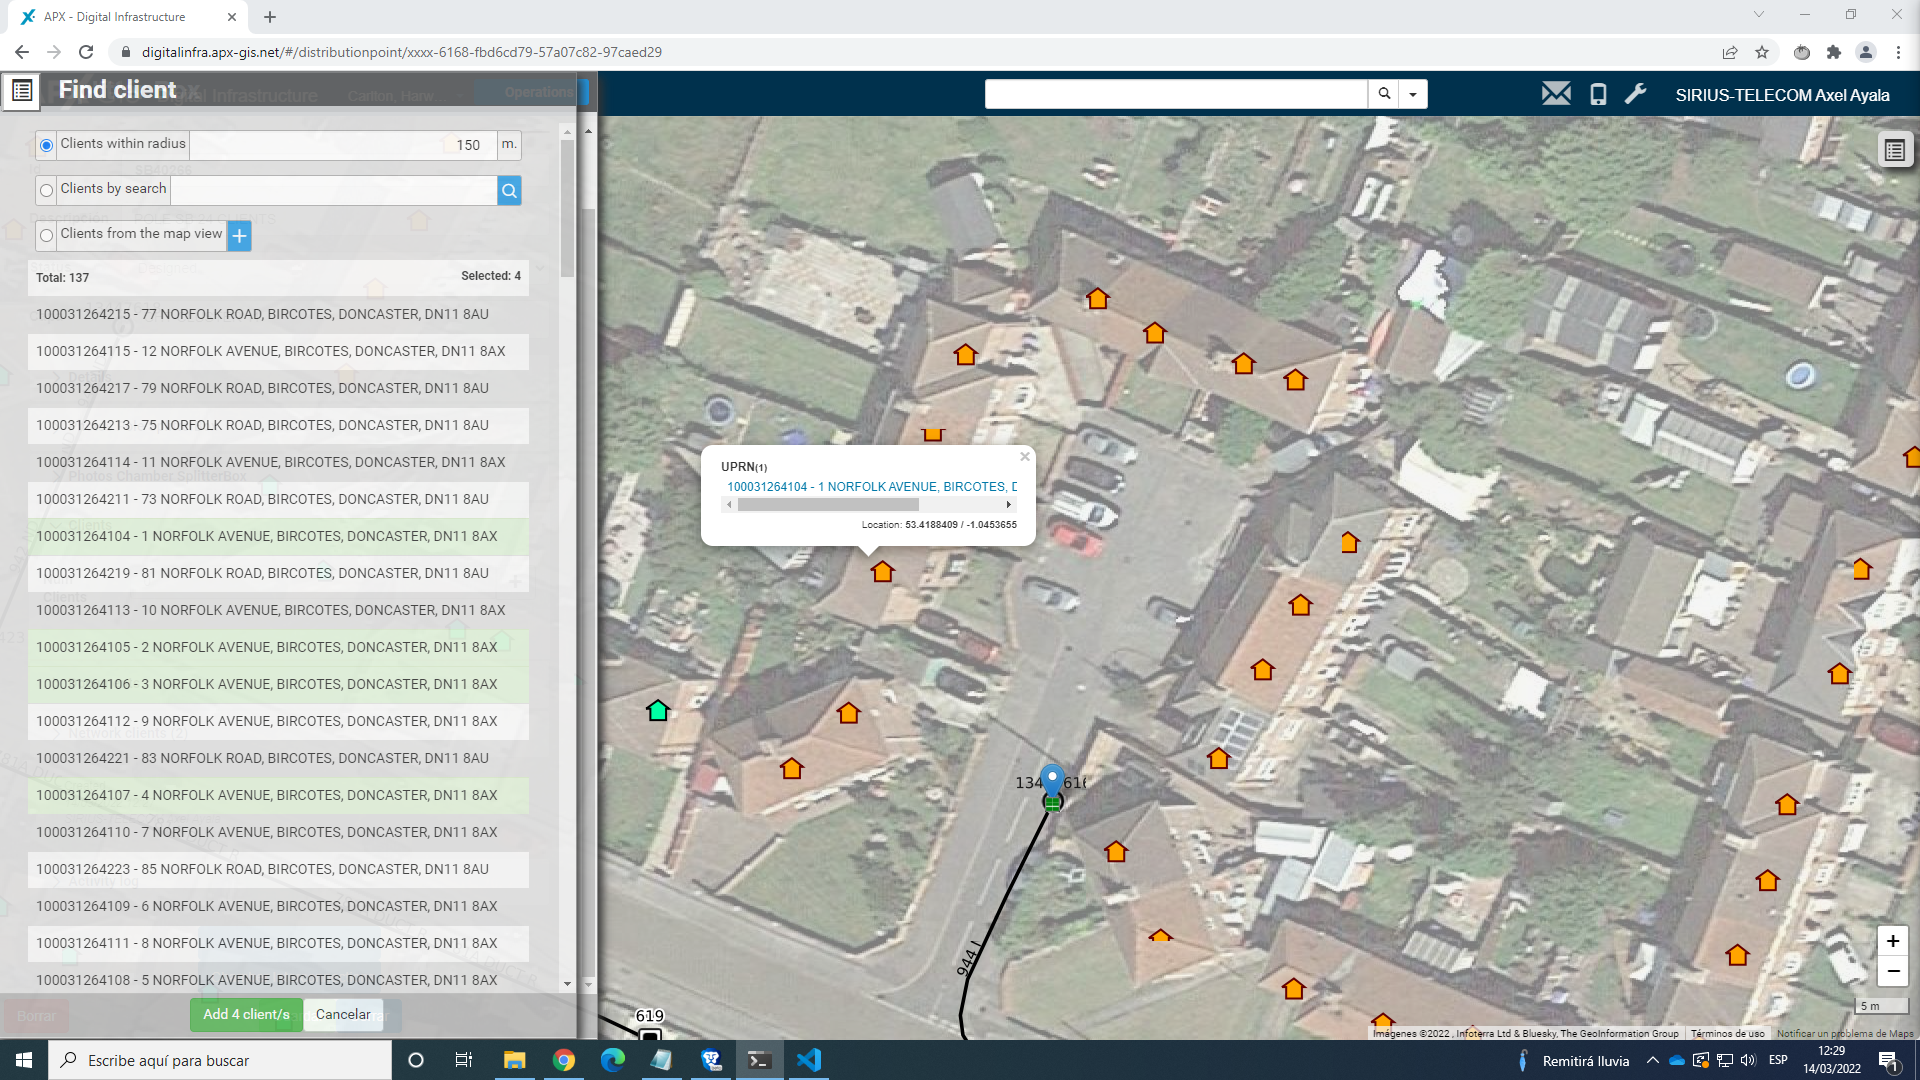
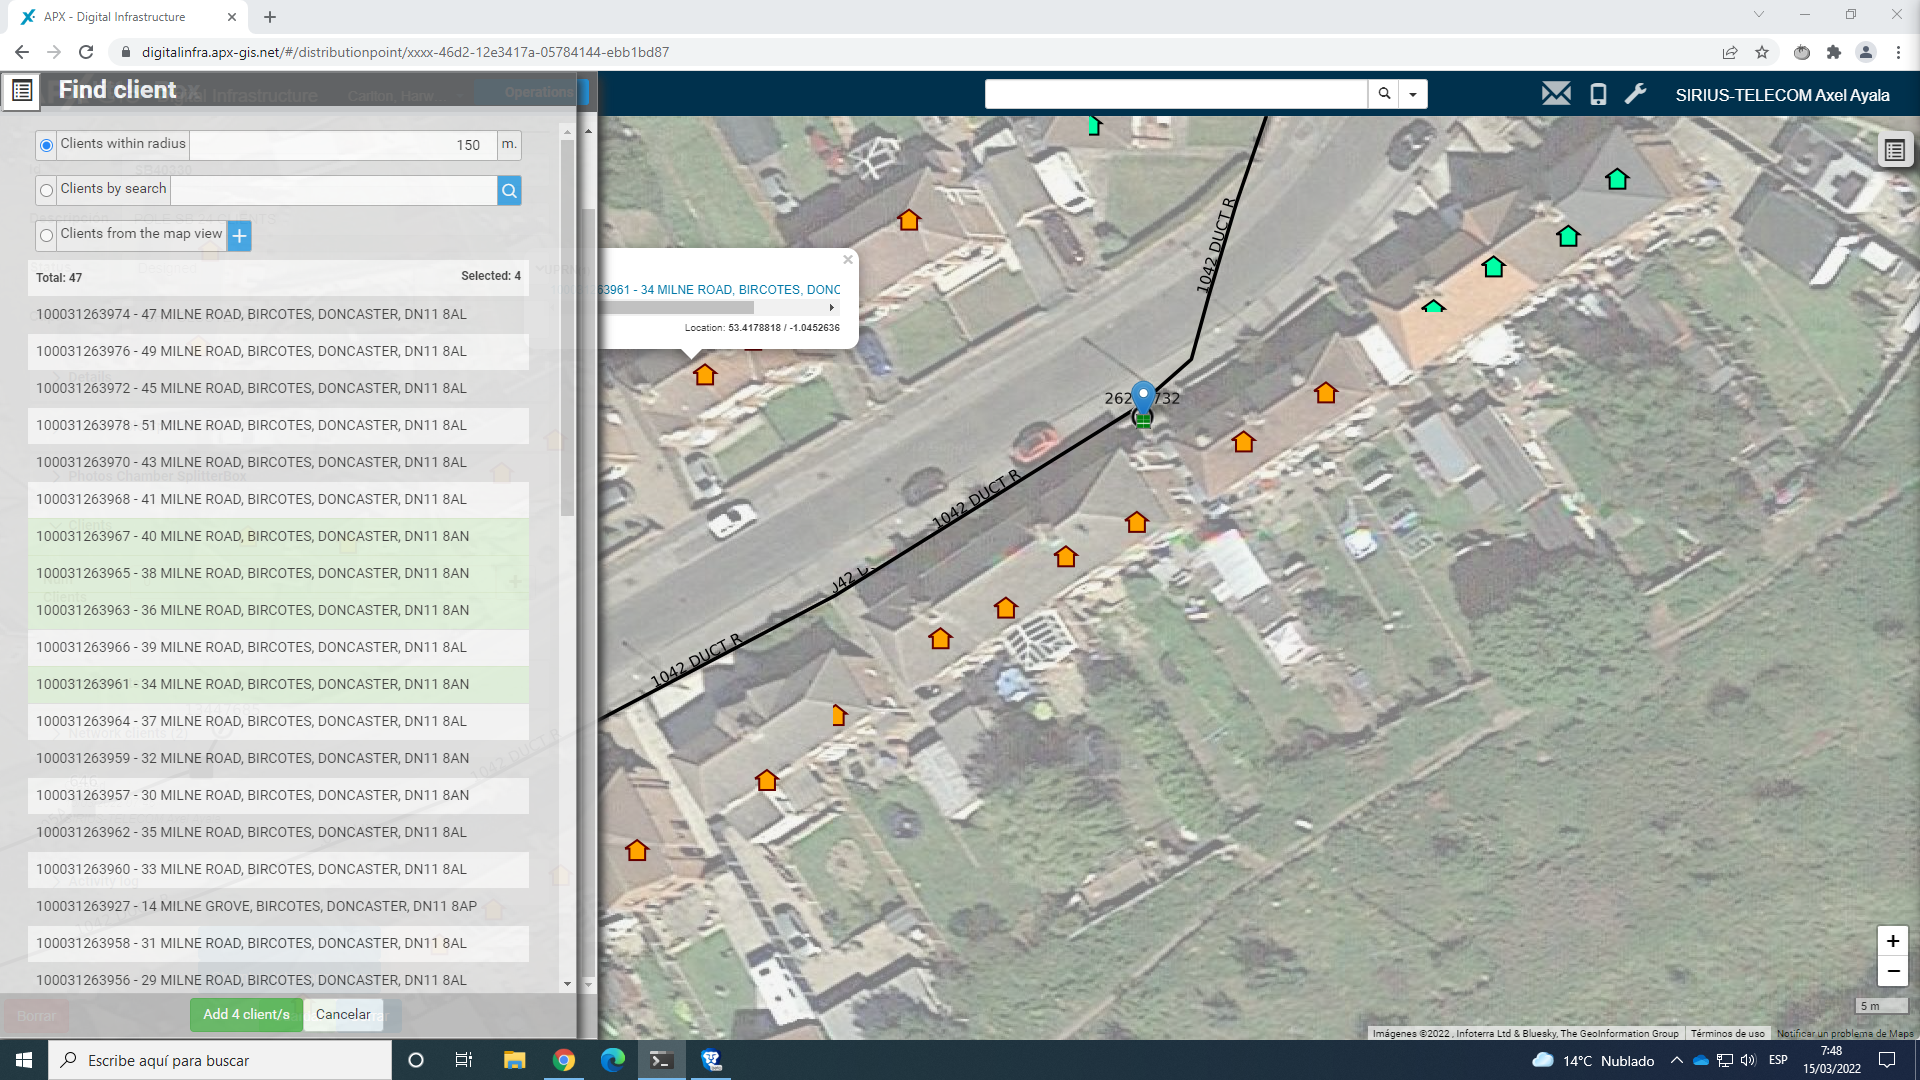
added cable automationj

diff --git a/digital_infrastructure/cable_manager.py b/digital_infrastructure/cable_manager.py
@@ -1,4 +1,6 @@
+from operator import not_
 from pydoc import Helper
+from cv2 import exp
 import pyautogui
 import time
 from selenium import webdriver
@@ -7,6 +9,7 @@ from selenium.webdriver.chrome.options import Options
 from selenium.webdriver.support.wait import WebDriverWait 
 from selenium.webdriver.support import expected_conditions as EC
 from selenium.webdriver.common.by import By
+from constants import CableCodes
 
 from helpers import Helpers
 
@@ -42,16 +45,9 @@ class CableManager:
         create_cable_wait = WebDriverWait(self.driver, 10).until(EC.visibility_of_element_located((By.CSS_SELECTOR, "a[href='#newCable']")))
         crate_cable = self.driver.find_element(by=By.CSS_SELECTOR, value="a[href='#newCable']").click()
 
-        #create cable
-        creating_cable = True
-        while creating_cable: 
 
-            form = input('seguir completando el formulario? ')
 
-            if form.strip() == 'y':
-                creating_cable = False
-
-        form_wait = WebDriverWait(self.driver, 30).until(EC.visibility_of_element_located((By.XPATH, ORIGIN_ID_XPATH )))
+        form_wait = WebDriverWait(self.driver, 600).until(EC.visibility_of_element_located((By.XPATH, ORIGIN_ID_XPATH )))
 
         select_origin = Select(self.driver.find_element(by=By.XPATH, value=ORIGIN_ID_XPATH))
         select_dest = Select(self.driver.find_element(by=By.XPATH, value = DEST_ID_XPATH))
@@ -89,10 +85,40 @@ class CableManager:
         layer_wait = WebDriverWait(self.driver, 10).until(EC.element_to_be_clickable((By.XPATH, '//*[@id="frmcable"]/form/article/div[2]/apx-field1[5]/div/div/app-find-layer/button')))
         layer = self.driver.find_element_by_xpath('//*[@id="frmcable"]/form/article/div[2]/apx-field1[5]/div/div/app-find-layer/button').click() 
         overlay_panel_wait = WebDriverWait(self.driver, 10).until(EC.visibility_of_element_located((By.CLASS_NAME, 'ui-overlaypanel')))
-        upr_option_wait = WebDriverWait(self.driver, 10).until(EC.visibility_of_element_located((By.XPATH, '//*[@id="frmcable"]/form/article/div[2]/apx-field1[5]/div/div/app-find-layer/p-overlaypanel/div/div/p-tree/div/div/ul/p-treenode[4]/li/div/div/div/span')))
+        #upr_option_wait = WebDriverWait(self.driver, 10).until(EC.visibility_of_element_located((By.XPATH, '//*[@id="frmcable"]/form/article/div[2]/apx-field1[5]/div/div/app-find-layer/p-overlaypanel/div/div/p-tree/div/div/ul/p-treenode[4]/li/div/div/div/span')))
         helper.scrape_layers(self.driver,self.workign_town, self.working_cluster)
 
-        save_button = self.driver.find_element_by_xpath('//*[@id="frmdistributionpoint"]/form/footer/button[1]').click()
+        save_button = self.driver.find_element_by_xpath('//*[@id="frmcable"]/form/footer/button[1]').click()
+
+        #cable details
+        not_clickable = True
+        while not_clickable: 
+            try: 
+                details_wait = WebDriverWait(self.driver, 30).until(EC.element_to_be_clickable((By.CSS_SELECTOR,"p-accordiontab[header='Cable Details'] span")))
+                details = self.driver.find_element(by=By.CSS_SELECTOR, value="p-accordiontab[header='Cable Details'] span").click()
+                not_clickable = False
+            except: 
+                pass
+
+        
+        size_wait = WebDriverWait(self.driver, 30).until(EC.visibility_of_element_located((By.CSS_SELECTOR,"apx-field1[label='Size'] input")))
+        size = self.driver.find_element(by= By.CSS_SELECTOR, value= "apx-field1[label='Size'] input")
+
+        cable_size = size.get_attribute('value')
+        print(cable_size)
+        tubes = int(int(cable_size)/ 10)
+        print(tubes)
+
+        tubes_input = self.driver.find_element(by=By.CSS_SELECTOR, value="apx-field1[label='Tubes'] input")
+        tubes_input.send_keys(tubes) 
+        
+        if cable_template == CableCodes.CABLE_48_FO_ULW or cable_template == CableCodes.CABLE_12_FO_ULW: 
+            comments = self.driver.find_element(by=By.CSS_SELECTOR, value="apx-field1[label='Comentarios'] textarea")
+            comments.send_keys('AERIAL')
+
+        save_button = self.driver.find_element_by_xpath('//*[@id="frmcable"]/form/footer/button[1]').click()
+
+        
 
 
     

diff --git a/digital_infrastructure/main.py b/digital_infrastructure/main.py
@@ -1,6 +1,6 @@
 from pydoc import Helper
 from cable_manager import CableManager
-from constants import JointBoxCodes, SbCodes, Towns 
+from constants import CableCodes, JointBoxCodes, SbCodes, Towns 
 from component_creator import ComponentCreator
 from remote_connection import RemoteConnection
 from helpers import Helpers 
@@ -13,6 +13,7 @@ if __name__ == '__main__':
 
     driver = RemoteConnection.setup_connection()
     creator = ComponentCreator(driver=driver, working_town=WORKING_TOWN, working_cluster=WORKING_CLUSTER)
+    cable_manager = CableManager(driver=driver, working_cluster=WORKING_CLUSTER, working_town_code='CHT', working_town=WORKING_TOWN) 
 
     keep_open = True
     
@@ -38,11 +39,15 @@ if __name__ == '__main__':
             creator.create_pole_sb(SbCodes.POLE_SB_24_CLIENTS_MOS)
         elif(command == '3'):
             creator.create_pole_sb(SbCodes.POLE_SB_24_CLIENTS_SAT)
+        elif command == 'a': 
+            cable_manager.automate_cable_form(cable_template=CableCodes.CABLE_12_FO)
+        elif command == 's': 
+            cable_manager.automate_cable_form(cable_template=CableCodes.CABLE_48_FO)
+        elif command == 'd': 
+            cable_manager.automate_cable_form(cable_template=CableCodes.CABLE_12_FO_ULW)
+        elif command == 'f': 
+            cable_manager.automate_cable_form(cable_template=CableCodes.CABLE_48_FO_ULW)
         elif(command == '0'): 
-            cable_manager = CableManager(driver=driver, working_cluster=WORKING_CLUSTER, working_town_code='CHT', working_town=WORKING_TOWN) 
-            id = cable_manager.get_cable_id('J13081','SB39786')
-            print(id)
-
-            cable_manager.automate_cable_form(cable_template='12 f.o.')
+            pass
 
 

diff --git a/digital_infrastructure/constants.py b/digital_infrastructure/constants.py
@@ -26,3 +26,12 @@ class JointBoxCodes :
     JOINT_BOX_SMALL = 'JOINT BOX SMALL'
     JOINT_BOX_MEDIAN = 'JOINT BOX MEDIAN'
     JOINT_BOX_BIG = 'JOINT BOX BIG'
+
+
+class CableCodes: 
+
+    CABLE_12_FO = '12 f.o.'
+    CABLE_12_FO_ULW = '12 f.o. ULW'
+    
+    CABLE_48_FO = '48 f.o.'
+    CABLE_48_FO_ULW = '48 f.o. ULW'
